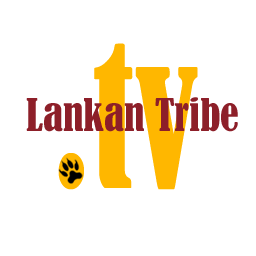
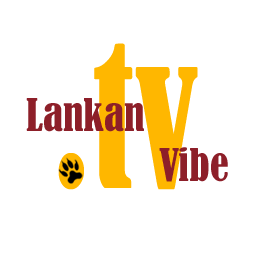
Renamed module name

Changed region(s): [[0.5938, 0.375, 0.9375, 0.5312], [0.625, 0.5625, 0.9062, 0.7188]]

diff --git a/README.md b/README.md
@@ -1,2 +1,2 @@
-# lankan-tribe-kodi-video-addon
-Lankan Tribe (A video add-on for Kodi)
+# lankan-vibe-kodi-video-addon
+Lankan Vibe (A video add-on for Kodi)
